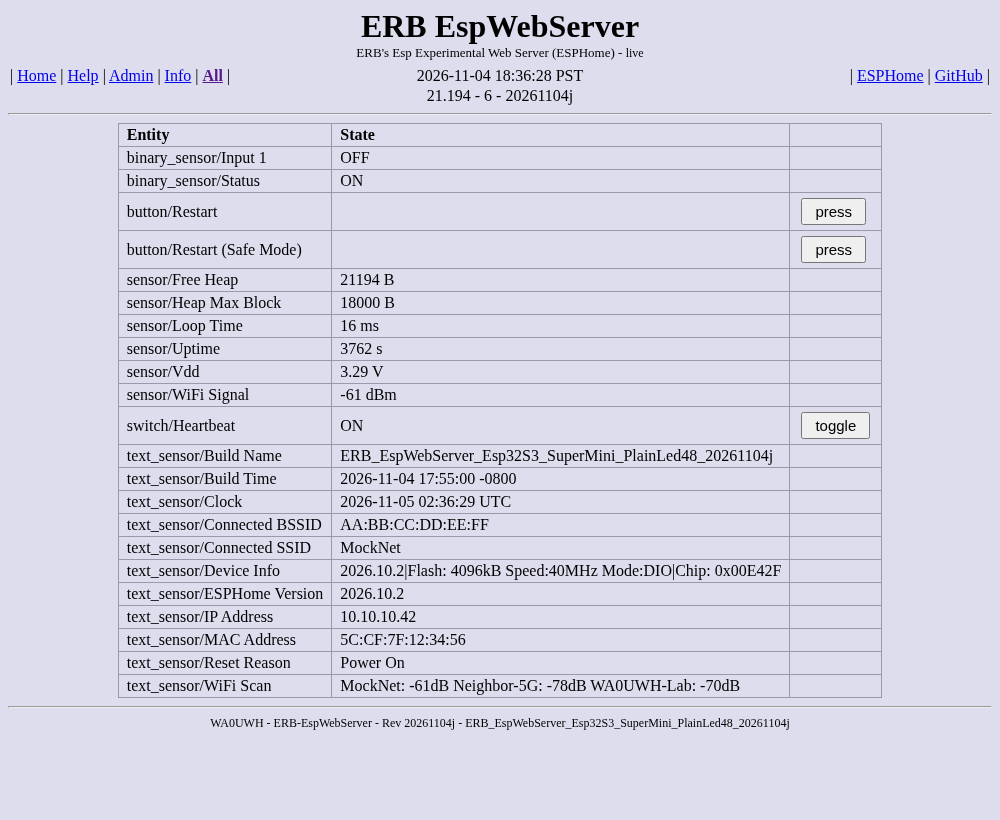
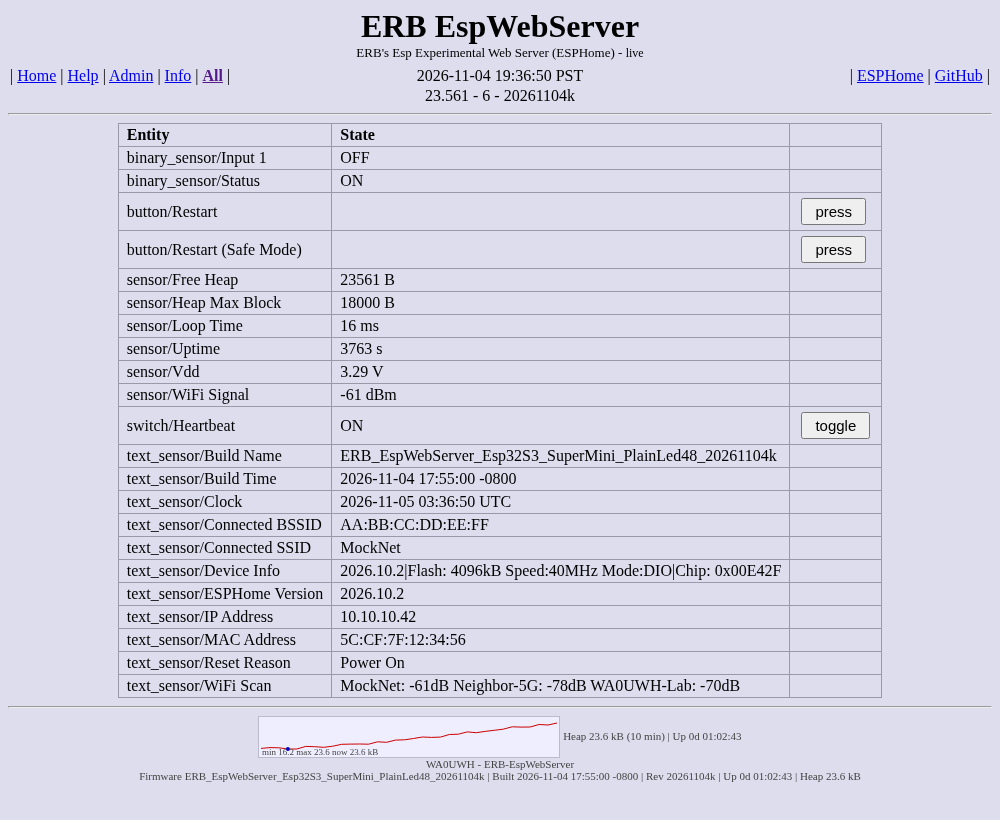
ESPHome Rev 20261104k: Home shows firmware file name, developer footer, heap sparkline
- Home: Firmware <Build Name>.factory.bin / .ota.bin line under buttons
- Developer footer: Firmware | Built | Rev | Up | Heap, live in Refresh()
- 300x40 free-heap sparkline (~10 min, browser memory) with min/max/now + uptime
- PlainLed48 Rev/Build_Name 20261104k; mock + PlainLed48 screenshots refreshed

diff --git a/esphome/www/erb_ui.js b/esphome/www/erb_ui.js
@@ -1,11 +1,11 @@
 // Authors: Grok and Eldon R. Brown - WA0UWH
-// Rev: 20261104j
+// Rev: 20261104k
 // ERB_UI - custom multi-page UI for the standalone ESPHome ERB-EspWebServer.
 // Recreates the 2015 Home / Help / Admin / Info pages + Navigator, from flash, no internet.
 // Data: /events SSE ("state" events, id = "<domain>/<Entity Name>"); actions: REST POST.
 (function () {
-  var Hist_Min = 30, Hist = [], S = {}, Page = 'home', Hits = 0;
-  var Rev = '20261104j';
+  var Hist_Min = 30, Hist = [], Spark = [], S = {}, Page = 'home', Hits = 0;
+  var Rev = '20261104k';
   var css = 'body{background:#ddddee;font-family:Times New Roman,serif;margin:8px;color:#000}' +
     'h1{text-align:center;margin:4px}h1 small{font-size:13px;font-weight:normal;display:block}' +
     '.Nav{width:100%;border-collapse:collapse}.Nav td{padding:2px}.Nav a{color:#00e;cursor:pointer;text-decoration:underline}' +
@@ -84,7 +84,8 @@
         '<div class="Ctr" style="margin-top:10px"><b>LED Control</b><br>' +
         ['Red', 'Green', 'Blue'].filter(function (c) { return S['switch/' + c + ' LED']; }).map(function (c) { return '<button class="Led" data-led="' + c + ' LED">' + c + ' LED is <span>' + Esc(V('switch/' + c + ' LED')) + '</span></button>'; }).join('') +
         '<button class="Led" data-led="Heartbeat">Heartbeat is <span>' + Esc(V('switch/Heartbeat')) + '</span></button>' +
-        '<br>Input 1 is <b id="v_binary_sensor_Input_1">' + Esc(V('binary_sensor/Input 1')) + '</b></div>';
+        '<br>Input 1 is <b id="v_binary_sensor_Input_1">' + Esc(V('binary_sensor/Input 1')) + '</b></div>' +
+        '<div class="Ctr" style="font-size:12px;margin-top:6px">Firmware: <span id="homeFw">--</span></div>';
     },
     info: function () {
       return '<pre>' + Row('Build Name', 'text_sensor/Build Name') + '<b>Upload File</b>: <span id="infoFile">--</span>\n' + Row('Build Time', 'text_sensor/Build Time') + Row('ESPHome', 'text_sensor/ESPHome Version') + Row('UI Rev', 'x/rev') + Row('Uptime', 'sensor/Uptime') +
@@ -134,6 +135,12 @@
     $('navStat').textContent = (isNaN(fh) ? '--' : fh.toFixed(3)) + ' - ' + Hits + ' - ' + Rev;
     var bn = V('text_sensor/Build Name'); bn = (bn && bn != '--') ? bn : '';
     if ($('ftBuild')) $('ftBuild').textContent = bn || '--';
+    if ($('homeFw')) $('homeFw').textContent = bn ? bn + '.factory.bin / .ota.bin' : '--';
+    var bt = V('text_sensor/Build Time'), up = N('sensor/Uptime');
+    if ($('ftTime')) $('ftTime').textContent = (bt && bt != '--') ? bt : '--';
+    if ($('ftUp')) $('ftUp').textContent = isNaN(up) ? '--' : (function (t) { t = Math.floor(t); function P(n) { return (n < 10 ? '0' : '') + n; } return Math.floor(t / 86400) + 'd ' + P(Math.floor(t / 3600) % 24) + ':' + P(Math.floor(t / 60) % 60) + ':' + P(t % 60); })(up);
+    if ($('ftHeap')) $('ftHeap').textContent = isNaN(fh) ? '--' : fh.toFixed(1) + ' kB';
+    DrawSpark();
     if ($('infoFile')) $('infoFile').textContent = bn ? bn + '.ota.bin' : '--';
     SetInst('gHeap', fh, isNaN(fh) ? '--' : fh.toFixed(1));
     var t = IsS3() ? 'sensor/Chip Temp' : 'sensor/Vdd'; SetInst('gVdd', N(t), V(t));
@@ -152,6 +159,17 @@
     var o = {}; new Intl.DateTimeFormat('en-US', { timeZone: Tz, hour12: false, year: 'numeric', month: '2-digit', day: '2-digit',
       hour: '2-digit', minute: '2-digit', second: '2-digit', timeZoneName: 'short' }).formatToParts(d).forEach(function (p) { o[p.type] = p.value; });
     o.hour = o.hour == '24' ? '00' : o.hour; return o;
+  }
+  function DrawSpark() {
+    var g = $('spark'), t = $('spkTxt'); if (!g) return;
+    var up = $('ftUp') ? $('ftUp').textContent : '--';
+    if (Spark.length < 2) { g.innerHTML = ''; t.textContent = 'Heap -- | Up ' + up; return; }
+    var mn = Math.min.apply(null, Spark), mx = Math.max.apply(null, Spark), cur = Spark[Spark.length - 1], r = (mx - mn) || 1, W = 300, H = 40, n = Spark.length, mi = Spark.indexOf(mn);
+    function X(i) { return (i * (W - 4) / (n - 1) + 2).toFixed(1); } function Y(v) { return (H - 10 - (v - mn) / r * (H - 14) + 2).toFixed(1); }
+    g.innerHTML = '<polyline fill="none" stroke="#c00" stroke-width="1" points="' + Spark.map(function (v, i) { return X(i) + ',' + Y(v); }).join(' ') + '"/>' +
+      '<circle cx="' + X(mi) + '" cy="' + Y(mn) + '" r="2" fill="#00c"/>' +
+      '<text x="3" y="38" font-size="9" fill="#444">min ' + mn.toFixed(1) + ' max ' + mx.toFixed(1) + ' now ' + cur.toFixed(1) + ' kB</text>';
+    t.textContent = 'Heap ' + cur.toFixed(1) + ' kB (10 min) | Up ' + up;
   }
   function Tick() {
     var p = Pac(new Date()), h = +p.hour, m = +p.minute, sec = +p.second;
@@ -192,6 +210,7 @@
     var isNew = !S[k]; S[k] = d;
     if (k == 'sensor/Free Heap' && typeof d.value == 'number') {
       Hist.push([Date.now(), d.value]);
+      Spark.push(d.value / 1000); if (Spark.length > 300) Spark.shift();   // ~10 min rolling, browser memory only
       while (Hist.length && Hist[0][0] < Date.now() - 60 * 60000) Hist.shift();
     }
     if (isNew && (Page == 'all' || Page == 'info' || (Page == 'home' && (k == 'sensor/Chip Temp' || k.indexOf('switch/') == 0)))) Show(Page); else Refresh();
@@ -208,7 +227,7 @@
   }
   function Start() {
     document.body.innerHTML = '<h1 id="erbTitle">ERB EspWebServer<small>ERB\'s Esp Experimental Web Server (ESPHome) - <span id="Conn">connecting</span></small></h1>' +
-      '<div id="erbNav"></div><hr><div id="erbPage"></div><hr><div class="Ctr" style="font-size:12px">WA0UWH - ERB-EspWebServer - Rev ' + Rev + ' - <span id="ftBuild">--</span></div>';
+      '<div id="erbNav"></div><hr><div id="erbPage"></div><hr><div class="Ctr" style="font-size:11px;color:#444"><svg id="spark" width="300" height="40" style="vertical-align:middle;background:#eef;border:1px solid #bbc"></svg> <span id="spkTxt">--</span></div><div class="Ctr" style="font-size:11px;color:#444">WA0UWH - ERB-EspWebServer<br>Firmware <span id="ftBuild">--</span> | Built <span id="ftTime">--</span> | Rev ' + Rev + ' | Up <span id="ftUp">--</span> | Heap <span id="ftHeap">--</span></div>';
     S['x/rev'] = { state: Rev };
     Show('home'); Connect(); setInterval(Tick, 1000); setInterval(DrawLine, 10000);
   }

diff --git a/esphome/mock/Mock_Server.js b/esphome/mock/Mock_Server.js
@@ -1,5 +1,5 @@
 // Authors: Grok and Eldon R. Brown - WA0UWH
-// Rev: 20261104j
+// Rev: 20261104k
 // Mock_Server - fakes the ESPHome v3 web_server (index, /0.js, /events SSE, POST actions)
 // (basic auth guest:grest only when MOCK_AUTH=1) so www/erb_ui.js can be tested in a browser. Usage: node Mock_Server.js [port]
 const http = require('http'), fs = require('fs'), path = require('path');
@@ -8,7 +8,7 @@ const JS = path.join(__dirname, '..', 'www', 'erb_ui.js');
 const S = {
   'sensor/Free Heap': [23456, '23456 B'], 'sensor/Vdd': [3.29, '3.29 V'], 'sensor/WiFi Signal': [-61, '-61 dBm'],
   'sensor/Uptime': [3725, '3725 s'], 'sensor/Heap Max Block': [18000, '18000 B'], 'sensor/Loop Time': [16, '16 ms'],
-  'text_sensor/ESPHome Version': [null, '2026.10.2'], 'text_sensor/Build Name': [null, process.env.MOCK_NO_LEDS ? 'ERB_EspWebServer_Esp32S3_SuperMini_PlainLed48_20261104j' : 'ERB_EspWebServer_Esp8266_NodeMcu_20261104j'], 'text_sensor/Build Time': [null, '2026-11-04 17:55:00 -0800'], 'text_sensor/Reset Reason': [null, 'Power On'],
+  'text_sensor/ESPHome Version': [null, '2026.10.2'], 'text_sensor/Build Name': [null, process.env.MOCK_NO_LEDS ? 'ERB_EspWebServer_Esp32S3_SuperMini_PlainLed48_20261104k' : 'ERB_EspWebServer_Esp8266_NodeMcu_20261104k'], 'text_sensor/Build Time': [null, '2026-11-04 17:55:00 -0800'], 'text_sensor/Reset Reason': [null, 'Power On'],
   'text_sensor/Device Info': [null, '2026.10.2|Flash: 4096kB Speed:40MHz Mode:DIO|Chip: 0x00E42F'],
   'text_sensor/IP Address': [null, '10.10.10.42'], 'text_sensor/Connected SSID': [null, 'MockNet'],
   'text_sensor/Connected BSSID': [null, 'AA:BB:CC:DD:EE:FF'], 'text_sensor/MAC Address': [null, '5C:CF:7F:12:34:56'],

diff --git a/esphome/mock/Shoot_Tabs.js b/esphome/mock/Shoot_Tabs.js
@@ -1,5 +1,5 @@
 // Authors: Grok and Eldon R. Brown - WA0UWH
-// Rev: 20261104j
+// Rev: 20261104k
 // Shoot_Tabs - headless screenshots of each ERB UI tab against Mock_Server.js.
 const puppeteer = require('/workspace/repos/grok-voice-reader-extension/chrome-extension/node_modules/puppeteer-core');
 const Out = require('path').join(__dirname, '..', 'screens') + (process.env.MOCK_NO_LEDS ? '/PlainLed48' : '');
@@ -23,7 +23,7 @@ require('fs').mkdirSync(Out, { recursive: true });
   await p.click(`[data-pg="home"]`); await p.click('[data-led="Heartbeat"]'); await new Promise(r => setTimeout(r, 500));
   await p.click(`[data-pg="admin"]`);
   const Dlg = []; p.on('dialog', d => Dlg.push(d.message().split('\n')[0]));
-  const Fw = '/tmp/ERB_EspWebServer_Esp32S3_SuperMini_PlainLed48_20261104j.ota.bin'; require('fs').writeFileSync(Fw, Buffer.alloc(4096, 7));
+  const Fw = '/tmp/ERB_EspWebServer_Esp32S3_SuperMini_PlainLed48_20261104k.ota.bin'; require('fs').writeFileSync(Fw, Buffer.alloc(4096, 7));
   await (await p.$('#otaFile')).uploadFile(Fw);
   console.log('CHOSEN', await p.$eval('#otaName', e => e.textContent));
   await p.click('#otaF button'); await new Promise(r => setTimeout(r, 1000));

diff --git a/esphome/NOTES.md b/esphome/NOTES.md
@@ -102,3 +102,10 @@
 - Mock checked (no JS errors), screens/PlainLed48/ refreshed.
 - flash/ERB_EspWebServer_Esp32S3_SuperMini_PlainLed48_20261104j.ota.bin (867024 B), .factory.bin (932560 B), Rev_20261104j.txt. Credentials baked in from secrets.yaml. NodeMCU + Ws2812 compile OK (no bins).
 - Note: PlainLed48 and Ws2812 share build dir erb-espwebserver-s3; compile PlainLed48 LAST before copying bins.
+
+## 2026-11-04 7:39 PM PST - Rev 20261104k: Home firmware line, developer footer, heap sparkline
+- Home: under LED Control/Heartbeat, small line "Firmware: <Build Name>.factory.bin / .ota.bin" (id homeFw, Refresh(), '--' if empty).
+- Footer: "WA0UWH - ERB-EspWebServer" then "Firmware <Build Name> | Built <Build Time> | Rev | Up d hh:mm:ss | Heap kB" (ftBuild/ftTime/ftUp/ftHeap, live in Refresh()).
+- Above footer: 300x40 SVG heap sparkline (Spark[], last 300 Free Heap samples ~10 min, browser memory only), min/max/now text, blue min marker, uptime text beside it. Home history graph unchanged.
+- Mock checked (no JS errors), screens/PlainLed48/ refreshed. Full compile log flash/Build_20261104k.log (no warnings, no secrets).
+- flash/ERB_EspWebServer_Esp32S3_SuperMini_PlainLed48_20261104k.factory.bin (933232 B), .ota.bin (867696 B), Rev_20261104k.txt. Credentials baked in. NodeMCU + S3 base compile OK (no bins). PlainLed48 compiled last.
